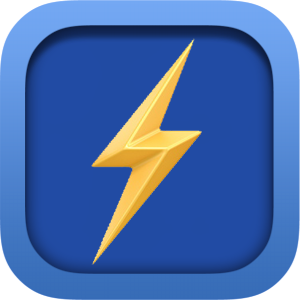
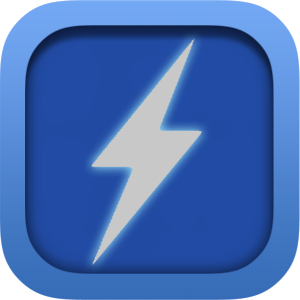
Improved Methods to run .py scripts
- And swapped the Lit Flash button with the regular one, so they fit the pattern of the other buttons XD

Changed region(s): [[0.3, 0.12, 0.69, 0.9]]

diff --git a/Xml_Axe/Window.cs b/Xml_Axe/Window.cs
@@ -17,6 +17,7 @@ using Microsoft.Win32;
 
 
 
+
 // ====================================================================================================
 // **************************************** 03.2021 Imperial ******************************************
 // ====================================================================================================
@@ -1372,13 +1373,40 @@ GroundBuildable";
 
                 if (Found_Scripts != null && Selection != "")
                 {   foreach (string File_Path in Found_Scripts)
-                    {   if (File_Path.EndsWith(Selection))                 
+                    {
+                        if (File_Path.EndsWith(Selection)) // If is the selected file               
                         {
-                            string[] Possible_Files = new string[] { "Mod_Cleanup.py", "Show_Passed_Arguments.py" };
+                            bool Has_Matched = false;
 
-                            if (!Match_Without_Emptyspace_2(Selection, Possible_Files[0]) & !Match_Without_Emptyspace_2(Selection, Possible_Files[1]))
-                            { Execute(File_Path); break; } // Otherwise append the Modpath to the Cleanup Script
-                            else { Execute(File_Path, "\"" + Properties.Settings.Default.Mod_Directory + "\\Data\""); break; }
+                            if (File_Path.EndsWith("py")) // No idea I just push these arguments to all py files XD
+                            {
+                                string Vanilla_Dir = Path.GetDirectoryName(Properties.Settings.Default.Steam_Exe_Path) + @"\steamapps\common\Star Wars Empire at War\Data";
+
+                                Execute(File_Path, "\"" + Properties.Settings.Default.Mod_Directory + "\\Data\" \"" + Vanilla_Dir + "\"", Get_Scripts_Dir());
+                                Has_Matched = true; return;
+                            }
+
+                            /* // Match by Filename
+                            string[] Possible_Files = new string[] { "Mod_Cleanup.py", "01_mod_cleanup.py", "Show_Passed_Arguments.py",
+                            "Dat_to_Tsv.py", "Tsv_to_Dat.py" };
+
+                            foreach (string File_Name in Possible_Files)
+                            {   if (Match_Without_Emptyspace_2(Selection, File_Name)) // Append the Modpath to the Cleanup Script                             
+                                {
+                                    string Vanilla_Dir =  Path.GetDirectoryName(Properties.Settings.Default.Steam_Exe_Path) +  @"\steamapps\common\Star Wars Empire at War\Data";
+
+                                    Execute(File_Path, "\"" + Properties.Settings.Default.Mod_Directory + "\\Data\" \"" + Vanilla_Dir + "\"", Get_Scripts_Dir());
+
+                                    // Alternate way: Specify path to the .json file as argument:
+                                    //Execute(File_Path, "\"" + Properties.Settings.Default.Mod_Directory + "\\Data\"" + " " + Get_Scripts_Dir() + "\\vanilla_dump.json");
+
+                                    // iConsole(400, 100, File_Path + " \"" + Properties.Settings.Default.Mod_Directory + "\\Data\"" + "\npause");                               
+                                    Has_Matched = true; return;
+                                }                                                       
+                            }
+                            */
+
+                            if (!Has_Matched) { Execute(File_Path, "", Get_Scripts_Dir()); return; } 
                         }                                                                         
                     }
                 }
@@ -1469,22 +1497,55 @@ GroundBuildable";
         }
 
         //===========================//
-        private bool Execute(string File_Path, string Arguments = "")
+        private bool Execute(string File_Path, string Arguments = "", string Working_Dir = "")
         {   try
             {   ProcessStartInfo Process_Info = new ProcessStartInfo();
                 Process_Info.FileName = File_Path;
                 Process_Info.Arguments = Arguments;
 
+                if (Working_Dir != "") { Process_Info.WorkingDirectory = Working_Dir; }
+
                 // iConsole(60, 100, Program_Path + " " + Arguments); // return true;
                 Process.Start(Process_Info);
 
                 // The_Process = Process.GetProcessesByName(Program_Name); // Retrieve the app processes. 
-            }
-            catch { iConsole(60, 100, "\nFailed to find and launch " + File_Path); return false; }
+            } catch { iConsole(60, 100, "\nFailed to find and launch " + File_Path); return false; }
 
             return true;
         }
 
+
+        //===========================//
+        private void Run_Cmd(string cmd, string args)
+        {
+            ProcessStartInfo start = new ProcessStartInfo();
+            // start.Arguments = string.Format("{0} {1}", cmd, args);
+
+            if (cmd.EndsWith("py")) 
+            {   start.FileName = @"python.exe";
+                start.Arguments = cmd + " " + args;
+            }
+            else 
+            {   start.FileName = cmd;
+                start.Arguments = args;
+            }        
+            start.UseShellExecute = false;
+            start.RedirectStandardOutput = true;
+            start.RedirectStandardInput = true;
+            start.CreateNoWindow = true;
+ 
+
+            using (Process process = Process.Start(start))
+            {
+                process.WaitForExit();
+                using (StreamReader reader = process.StandardOutput)
+                {
+                    string result = reader.ReadToEnd();
+                    iConsole(600, 400, result);
+                    // Console.Write(result);
+                }
+            }
+        }
 
         //===========================//
         private List<string> Process_Tags(string Input = "")
@@ -2010,34 +2071,44 @@ GroundBuildable";
             {   Script_Mode = true;
                 Label_Tag_Name.Text = "Run Script";
                 Set_UI_Into_Script_Mode(!Script_Mode);
-                Combo_Box_Tag_Name.Text = "";            
+                Combo_Box_Tag_Name.Text = "";
 
+            
 
-                string Script_Directory = Environment.GetFolderPath(Environment.SpecialFolder.LocalApplicationData) + @"\Xml_Axe\Scripts";
-
-                // Overwride by User Setting
-                if (!Match_Without_Emptyspace_2(Properties.Settings.Default.Tags, @"Script_Directory = %AppData%\Local\Xml_Axe\Scripts"))
-                {   foreach (string Line in Properties.Settings.Default.Tags.Split('\n'))
-                    { if (Line != "" & Line.Contains("Script_Directory")) { Script_Directory = Line.Split('=')[1]; } }
-
-                    // Removing empty space
-                    if (Script_Directory[0] == ' ') { Script_Directory = Remove_Emptyspace_Prefix(Script_Directory); }
-                    // iConsole(600, 200, "\"" + Script_Directory + "\""); return;
-                }
-          
-                Found_Scripts = Get_All_Files(Script_Directory);
+                Found_Scripts = Get_All_Files(Get_Scripts_Dir());
                 List<string> Script_Names = new List<string>();
 
                 if (Found_Scripts != null)
                 {   try 
                     {   foreach (string File_Path in Found_Scripts)
-                        { Script_Names.Add(Path.GetFileName(File_Path)); }
+                        {   if (!File_Path.EndsWith("json"))
+                            { Script_Names.Add(Path.GetFileName(File_Path)); }
+                        }
                         Reset_Script_Box(Script_Names);
                     } catch {}
                 }
 
                 Combo_Box_Tag_Name.DroppedDown = true; // Show to the User
             }
+        }
+
+
+        private string Get_Scripts_Dir()
+        {
+            string Script_Directory = Environment.GetFolderPath(Environment.SpecialFolder.LocalApplicationData) + @"\Xml_Axe\Scripts";
+
+            // Overwride by User Setting
+            if (!Match_Without_Emptyspace_2(Properties.Settings.Default.Tags, @"Script_Directory = %AppData%\Local\Xml_Axe\Scripts"))
+            {
+                foreach (string Line in Properties.Settings.Default.Tags.Split('\n'))
+                { if (Line != "" & Line.Contains("Script_Directory")) { Script_Directory = Line.Split('=')[1]; break; } }
+
+                // Removing empty space
+                if (Script_Directory[0] == ' ') { Script_Directory = Remove_Emptyspace_Prefix(Script_Directory); }
+                // iConsole(600, 200, "\"" + Script_Directory + "\""); return;
+            }
+
+            return Script_Directory;
         }
 
         private void Button_Scripts_MouseHover(object sender, EventArgs e)
